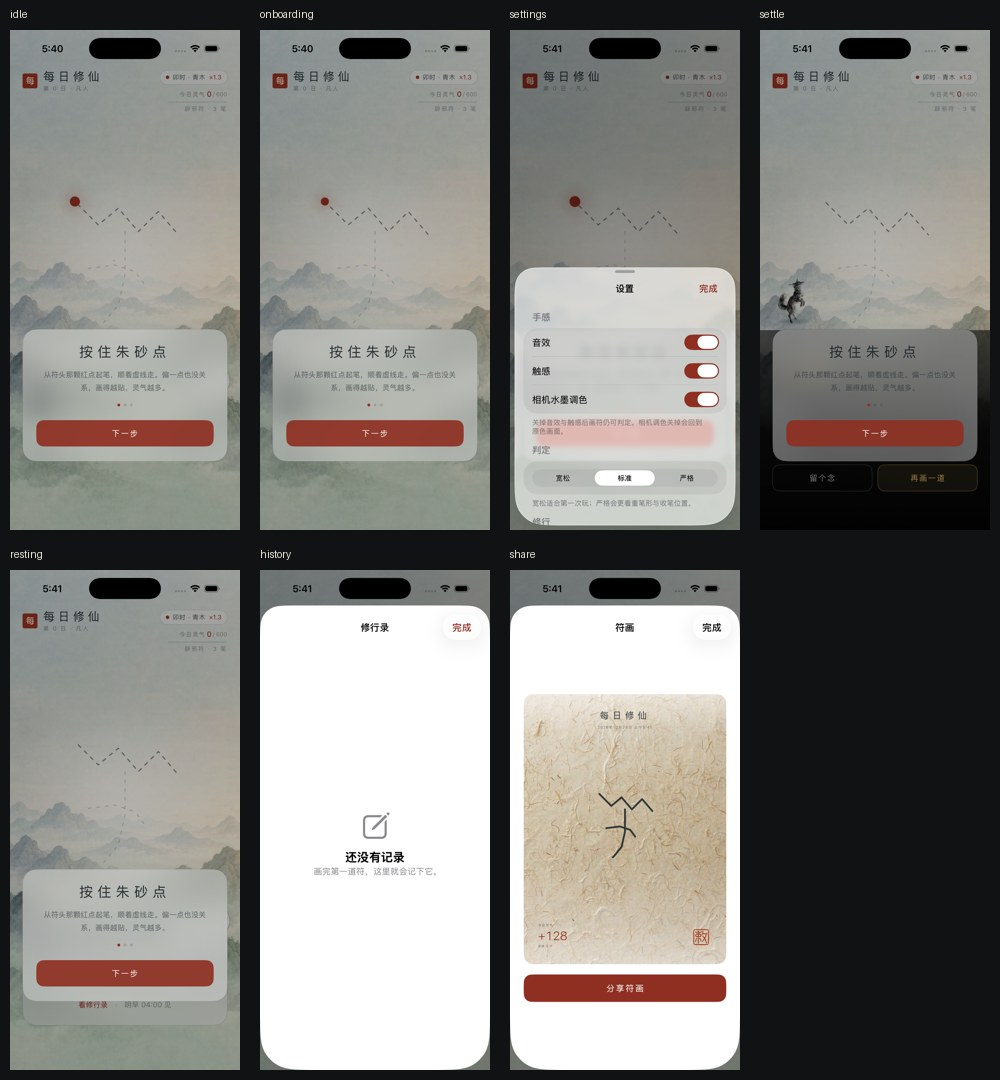
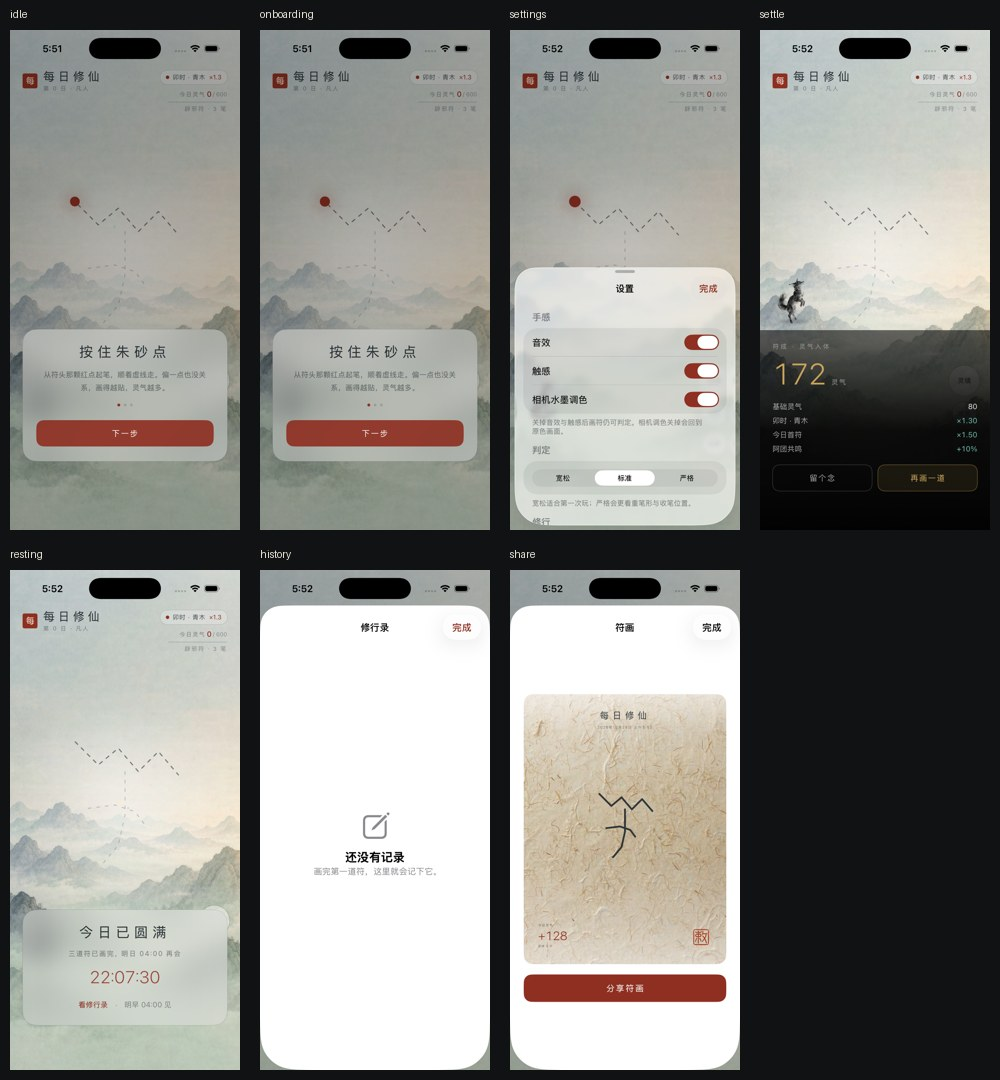
fix(ios): 修行录截图用固定假数据；idle 截图不再带引导

diff --git a/ios/DailyCultivation/App/AppModel.swift b/ios/DailyCultivation/App/AppModel.swift
@@ -115,6 +115,10 @@ final class AppModel {
     }
 
     func loadRecords() {
+#if DEBUG
+        // 截图态用固定假数据，避免依赖 CoreData 的实际写入结果
+        if previewState == "history" { return }
+#endif
         records = store.recentRecords()
     }
 
@@ -127,8 +131,17 @@ final class AppModel {
     }
 
     func seedPreviewRecords() {
-        store.seedPreviewSessions()
-        records = store.recentRecords()
+        let order: [Shichen] = [.wu, .mao, .zi, .you]
+        records = (0..<5).map { index in
+            CultivationStore.Record(
+                id: UUID(),
+                date: Date().addingTimeInterval(-Double(index) * 3 * 3600),
+                qi: 96 + index * 17,
+                score: 0.86 + Double(index) * 0.02,
+                strokes: 3,
+                shichen: order[index % order.count]
+            )
+        }
     }
 #endif
 

diff --git a/ios/DailyCultivation/App/RootView.swift b/ios/DailyCultivation/App/RootView.swift
@@ -234,6 +234,8 @@ struct RootView: View {
             activeSheet = .share
         case "settings":
             activeSheet = .settings
+        case "idle":
+            break
         case "settle":
             model.ritual.forceSettleForPreview()
         default:
